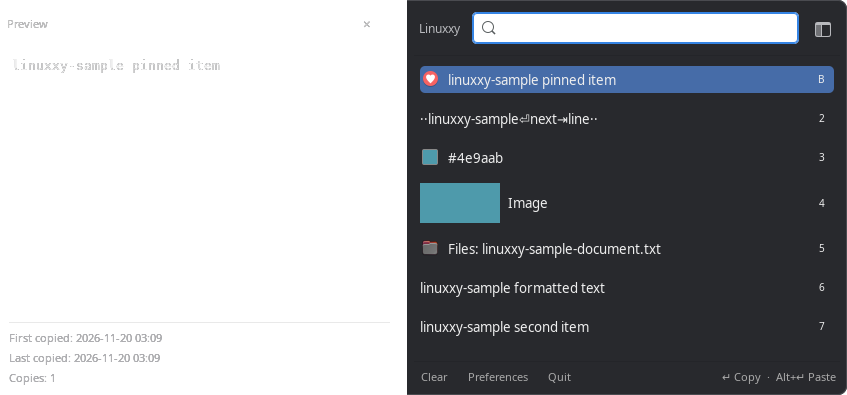
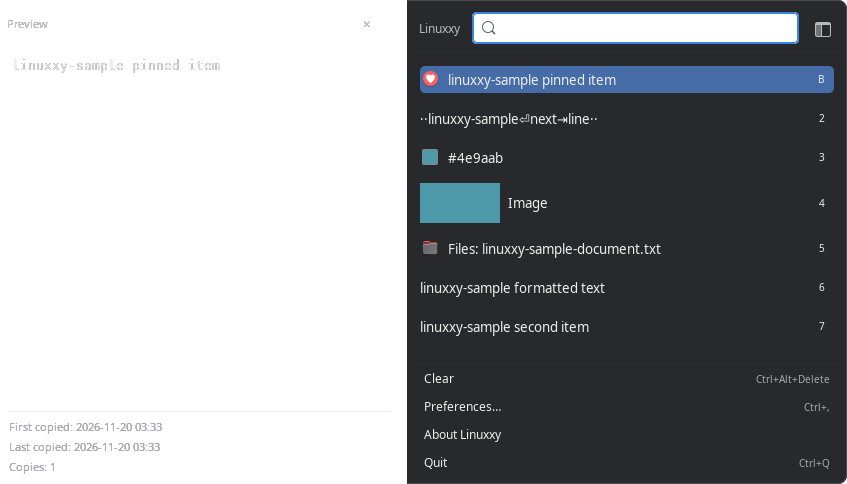
Match Maccy-style popup footer and clear confirmations

diff --git a/linuxxy.py b/linuxxy.py
@@ -133,26 +133,36 @@ class App:
         self.rows.connect("key-press-event", self.on_key)
         scroll.add(self.rows)
         box.pack_start(Gtk.Separator(), False, False, 4)
-        footer = Gtk.Box(spacing=6)
+        footer = Gtk.Box(orientation=Gtk.Orientation.VERTICAL, spacing=0)
         footer.set_name("linuxxy-footer")
         footer.set_no_show_all(not self.settings.get("show_footer"))
         self.footer = footer
         box.pack_start(footer, False, False, 0)
-        for label, callback in (("Clear", self.clear), ("Preferences", self.show_settings),
-                                ("Quit", self.quit)):
-            button = Gtk.Button(label=label)
+
+        def footer_button(label, shortcut, callback):
+            button = Gtk.Button()
             button.set_relief(Gtk.ReliefStyle.NONE)
             button.connect("clicked", callback)
+            line = Gtk.Box(spacing=8)
+            title = Gtk.Label(label=label, xalign=0)
+            line.pack_start(title, True, True, 0)
+            badge = Gtk.Label(label=shortcut, xalign=1)
+            badge.set_name("linuxxy-footer-shortcut")
+            line.pack_end(badge, False, False, 0)
+            button.add(line)
             footer.pack_start(button, False, False, 0)
+            return button
+
         self.queue_button = Gtk.Button(label="Queue")
         self.queue_button.set_relief(Gtk.ReliefStyle.NONE)
         self.queue_button.set_no_show_all(True)
         self.queue_button.set_tooltip_text("Copy selected items in order, then press Ctrl+V for each")
         self.queue_button.connect("clicked", self.start_paste_stack)
         footer.pack_start(self.queue_button, False, False, 0)
-        hint = Gtk.Label(label="↵ Copy  ·  Alt+↵ Paste")
-        hint.set_xalign(1)
-        footer.pack_end(hint, False, False, 4)
+        self.clear_button = footer_button("Clear", "Ctrl+Alt+Delete", self.confirm_clear)
+        self.preferences_button = footer_button("Preferences…", "Ctrl+,", self.show_settings)
+        self.about_button = footer_button("About Linuxxy", "", self.show_about)
+        self.quit_button = footer_button("Quit", "Ctrl+Q", self.quit)
         self.preview_divider = Gtk.EventBox()
         self.preview_divider.set_name("linuxxy-preview-divider")
         self.preview_divider.set_no_show_all(True)
@@ -221,8 +231,9 @@ class App:
             #linuxxy-list > row { min-height: 31px; border-radius: 5px; }
             #linuxxy-list > row label { color: #eeeeee; }
             box.linuxxy-selected { background-color: #466ca8; border-radius: 5px; color: white; }
-            #linuxxy-footer button { min-height: 20px; padding: 0 6px; font-size: 11px; }
-            #linuxxy-footer label { color: #aaa; font-size: 11px; }
+            #linuxxy-footer button { min-height: 24px; padding: 1px 9px; font-size: 12px; color: #eee; }
+            #linuxxy-footer button:hover { background: #3b3d43; border-radius: 5px; }
+            #linuxxy-footer-shortcut { color: #a7a8ad; font-size: 10px; }
             #linuxxy-index { color: #aaa; font-size: 10px; min-width: 16px; }
             box.linuxxy-multi-selected { background-color: #4d624b; border-radius: 5px; color: white; }
             #linuxxy-color-swatch { border: 1px solid #888; border-radius: 2px; }
@@ -447,7 +458,9 @@ class App:
             height -= 43
         elif not self.search.get_visible():
             height -= 14
-        if not self.settings.get("show_footer"):
+        if self.settings.get("show_footer"):
+            height += 89
+        else:
             height -= 26
         display = Gdk.Display.get_default()
         _screen, pointer_x, pointer_y, _mods = display.get_pointer()
@@ -840,7 +853,49 @@ class App:
     def clear(self, *_):
         self.history.clear()
         self.clear_system_clipboard_if_enabled()
+        self.cancel_paste_stack()
         self.refresh()
+        self.hide_window()
+
+    def confirm_clear(self, *_args, all_items=False):
+        if self.settings.get("suppress_clear_confirmation"):
+            if all_items:
+                self.clear_all()
+            else:
+                self.clear()
+            return
+        dialog = Gtk.MessageDialog(transient_for=self.window, modal=True,
+                                   message_type=Gtk.MessageType.WARNING,
+                                   buttons=Gtk.ButtonsType.NONE,
+                                   text=("Clear all clipboard history, including pinned items?"
+                                         if all_items else "Clear unpinned clipboard history?"))
+        dialog.add_button("Cancel", Gtk.ResponseType.CANCEL)
+        confirm = dialog.add_button("Clear all" if all_items else "Clear", Gtk.ResponseType.OK)
+        confirm.get_style_context().add_class("destructive-action")
+        remember = Gtk.CheckButton(label="Don't ask again")
+        dialog.get_message_area().pack_start(remember, False, False, 4)
+
+        def respond(window, response):
+            suppress = remember.get_active()
+            window.destroy()
+            if response != Gtk.ResponseType.OK:
+                return
+            if suppress:
+                self.settings.set("suppress_clear_confirmation", True)
+            if all_items:
+                self.clear_all()
+            else:
+                self.clear()
+
+        dialog.connect("response", respond)
+        dialog.show_all()
+
+    def clear_all(self):
+        self.history.clear_all()
+        self.clear_system_clipboard_if_enabled()
+        self.cancel_paste_stack()
+        self.refresh()
+        self.hide_window()
 
     def clear_system_clipboard_if_enabled(self):
         if self.settings.get("clear_system_clipboard"):
@@ -910,16 +965,14 @@ class App:
         if event.keyval == Gdk.KEY_comma and ctrl:
             self.show_settings()
             return True
+        if event.keyval == Gdk.KEY_q and ctrl:
+            self.quit()
+            return True
         if event.keyval == Gdk.KEY_Escape:
             self.hide_window()
             return True
         if event.keyval == Gdk.KEY_Delete and ctrl and alt:
-            if shift:
-                self.history.clear_all()
-            else:
-                self.history.clear()
-            self.clear_system_clipboard_if_enabled()
-            self.refresh()
+            self.confirm_clear(all_items=shift)
             return True
         if event.keyval == Gdk.KEY_Return:
             row = self.selected() or next(iter(self.rows.get_children()), None)
@@ -1076,12 +1129,28 @@ class App:
                                 ("Cancel paste queue", self.cancel_paste_stack),
                                 ("Preferences…", self.show_settings),
                                 ("Resume monitoring" if self.paused else "Pause monitoring", self.toggle_pause),
+                                ("About Linuxxy", self.show_about),
                                 ("Quit", self.quit)):
             item = Gtk.MenuItem(label=label)
             item.connect("activate", lambda _item, fn=callback: fn())
             menu.append(item)
         menu.show_all()
         menu.popup(None, None, Gtk.StatusIcon.position_menu, self.tray, button, activate_time)
+
+    def show_about(self, *_):
+        if getattr(self, "about", None) and self.about.get_visible():
+            self.about.present()
+            return
+        dialog = Gtk.AboutDialog(transient_for=self.window)
+        dialog.set_program_name("Linuxxy")
+        dialog.set_comments("An X11 clipboard manager inspired by Maccy")
+        dialog.set_website("https://github.com/SummerXDsss/linuxxy")
+        dialog.set_license_type(Gtk.License.MIT_X11)
+        dialog.connect("response", lambda window, *_: window.destroy())
+        dialog.connect("destroy", lambda *_: setattr(self, "about", None))
+        self.about = dialog
+        dialog.show_all()
+        dialog.present()
 
     def show_settings(self, *_):
         if getattr(self, "preferences", None) and self.preferences.get_visible():

diff --git a/tests/footer_menu_smoke.py b/tests/footer_menu_smoke.py
@@ -1,0 +1,148 @@
+"""Use the popup's menu-style footer with real X11 pointer and keyboard events."""
+
+import os
+import sys
+import tempfile
+import time
+from pathlib import Path
+
+import gi
+gi.require_version('Gtk', '3.0')
+gi.require_version('Gdk', '3.0')
+gi.require_version('GdkX11', '3.0')
+from gi.repository import Gdk, GdkX11, GLib, Gtk
+from Xlib import X, display
+from Xlib.ext import xtest
+
+from ui_smoke import activate, keys, screenshot
+
+ROOT = Path(__file__).resolve().parents[1]
+sys.path.insert(0, str(ROOT))
+from history import History
+from linuxxy import App
+from settings import Settings
+
+
+def pump(seconds=.2):
+    end = time.monotonic() + seconds
+    while time.monotonic() < end:
+        GLib.MainContext.default().iteration(False)
+        time.sleep(.01)
+
+
+def click(app, widget, popup):
+    activate(popup)
+    x, y = widget.translate_coordinates(app.window, 25, 12)
+    origin_x, origin_y = app.window.get_position()
+    connection = display.Display()
+    xtest.fake_input(connection, X.MotionNotify, x=origin_x + x, y=origin_y + y)
+    xtest.fake_input(connection, X.ButtonPress, 1)
+    xtest.fake_input(connection, X.ButtonRelease, 1)
+    connection.sync()
+    connection.close()
+    pump()
+
+
+def confirm_clear(name, remember=False):
+    dialog = next(window for window in Gtk.Window.list_toplevels()
+                  if isinstance(window, Gtk.MessageDialog) and window.get_visible())
+    pump(.5)
+    xid = GdkX11.X11Window.get_xid(dialog.get_window())
+    screenshot(xid, name)
+    if remember:
+        checkbox = next(widget for widget in dialog.get_message_area().get_children()
+                        if isinstance(widget, Gtk.CheckButton))
+        checkbox.set_active(True)
+    button = dialog.get_widget_for_response(Gtk.ResponseType.OK)
+    x, y = button.translate_coordinates(dialog, 20, 12)
+    origin_x, origin_y = dialog.get_window().get_origin()[-2:]
+    connection = display.Display()
+    xtest.fake_input(connection, X.MotionNotify, x=origin_x + x, y=origin_y + y)
+    xtest.fake_input(connection, X.ButtonPress, 1)
+    xtest.fake_input(connection, X.ButtonRelease, 1)
+    connection.sync()
+    connection.close()
+    pump()
+
+
+clipboard = Gtk.Clipboard.get(Gdk.SELECTION_CLIPBOARD)
+original = clipboard.wait_for_text()
+clipboard.set_text(' ', -1)
+clipboard.store()
+try:
+    with tempfile.TemporaryDirectory() as directory:
+        os.environ['XDG_DATA_HOME'] = directory
+        os.environ['XDG_CONFIG_HOME'] = directory
+        os.environ['XDG_RUNTIME_DIR'] = directory
+        os.environ['XDG_SESSION_TYPE'] = 'x11'
+        history = History(Path(directory) / 'linuxxy/history.sqlite')
+        history.add('Pinned note')
+        history.pin(history.list()[0][0], True)
+        history.add('Disposable note')
+        history.close()
+        settings = Settings()
+        settings.set('open_preview_automatically', False)
+        settings.set('popup_position', 'screen_center')
+        app = App()
+        try:
+            app.toggle_window()
+            pump(.8)
+            popup = GdkX11.X11Window.get_xid(app.window.get_window())
+            screenshot(popup, 'ui_footer_menu.png')
+            click(app, app.about_button, popup)
+            assert app.about and app.about.get_visible()
+            screenshot(GdkX11.X11Window.get_xid(app.about.get_window()), 'ui_about.png')
+            keys('Escape')
+            pump()
+            assert app.about is None
+
+            click(app, app.clear_button, popup)
+            pending = next(window for window in Gtk.Window.list_toplevels()
+                           if isinstance(window, Gtk.MessageDialog) and window.get_visible())
+            pending.response(Gtk.ResponseType.CANCEL)
+            pump()
+            assert any(row[1] == 'Disposable note' for row in app.history.list())
+            click(app, app.clear_button, popup)
+            confirm_clear('ui_clear_confirmation.png')
+            assert [row[1] for row in app.history.list()] == ['Pinned note']
+            assert not app.window.get_visible()
+            app.toggle_window()
+            pump()
+            click(app, app.preferences_button, popup)
+            assert app.preferences and app.preferences.get_visible()
+            app.preferences.destroy()
+            pump()
+            app.show_about()
+            pump()
+            assert app.about and app.about.get_mapped(), 'About did not open from a hidden popup'
+            app.about.response(Gtk.ResponseType.CLOSE)
+            pump()
+            app.toggle_window()
+            pump()
+            activate(popup)
+            keys('Control_L', 'Alt_L', 'Shift_L', 'Delete')
+            pump()
+            confirm_clear('ui_clear_all_confirmation.png', remember=True)
+            assert not app.history.list()
+            assert not app.window.get_visible()
+            assert Settings().get('suppress_clear_confirmation')
+            app.history.add('Clear without another prompt')
+            app.confirm_clear()
+            assert not app.history.list()
+            assert not any(isinstance(window, Gtk.MessageDialog) and window.get_visible()
+                           for window in Gtk.Window.list_toplevels())
+            app.history.add('Quit shortcut item')
+            app.toggle_window()
+            pump()
+            activate(popup)
+            keys('Control_L', 'q')
+            pump()
+            assert app.closed
+            print('Footer rows, About, Clear, Preferences, and Ctrl+Q passed')
+        finally:
+            if not app.closed:
+                app.quit()
+finally:
+    if original is not None:
+        clipboard.set_text(original, -1)
+        clipboard.store()

diff --git a/settings.py b/settings.py
@@ -16,6 +16,7 @@ DEFAULTS = {
     "check_interval_ms": 500,
     "clear_on_quit": False,
     "clear_system_clipboard": False,
+    "suppress_clear_confirmation": False,
     "monitoring_paused": False,
     "popup_position": "cursor",
     "popup_last_position": None,

diff --git a/README.md b/README.md
@@ -73,7 +73,9 @@ subsequent **Ctrl+V** pastes the current item and prepares the next one.
 You can also add entries to the queue from the right-click menu. Choosing
 another item or copying new content cancels the queue.
 Use **Ctrl+Alt+Delete** to clear unpinned history or **Ctrl+Alt+Shift+Delete**
-to clear all history, including pinned entries. Clear unpinned history from the footer.
+to clear all history, including pinned entries. The popup footer has menu-style
+rows for Clear, Preferences, About, and Quit; **Ctrl+Q** also quits. Clearing
+history asks for confirmation unless you choose **Don't ask again** in the dialog.
 Press **Ctrl+Space** or click the sidebar button beside search to open or close
 a selected result's full text or image
 preview beside the list. The preview follows the selected item and opens on the
@@ -165,6 +167,9 @@ settings controls, checks paused monitoring and clipboard clearing, and verifies
 that pinned items survive clear-on-quit.
 The [tray settings test](tests/tray_settings_smoke.py) changes tray visibility and
 icon style, checks the recent-copy text, and opens the popup with the icon hidden.
+The [footer menu test](tests/footer_menu_smoke.py) clicks the menu rows with real
+X11 pointer events, captures About and both clear confirmations, and checks the
+quit shortcut.
 The [shortcut behavior test](tests/action_shortcuts_behavior.py) checks validation,
 conflicts, disabled keys, and persistence.
 The [search test](tests/search_behavior.py) verifies matching modes, fuzzy
